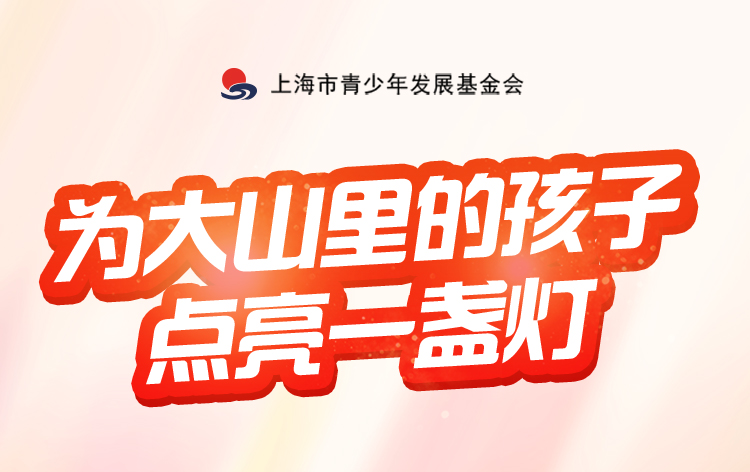
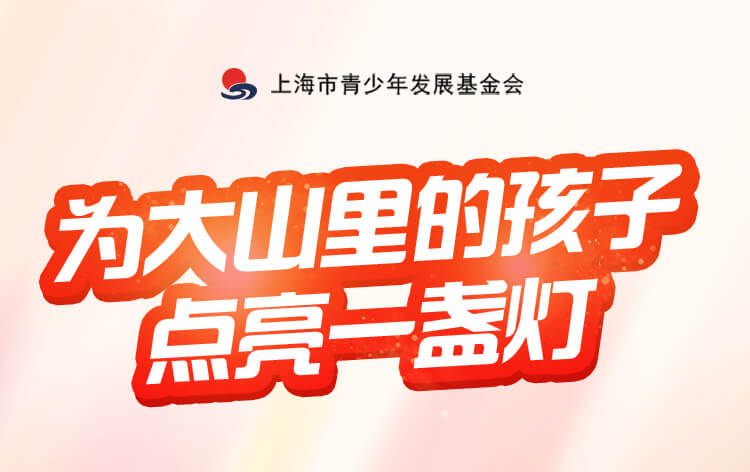
191015-n募捐项目上传

diff --git a/demo/outs20191015/css/style.css b/demo/outs20191015/css/style.css
@@ -92,12 +92,13 @@ img {
 .index .index-2 {
   width: 100%;
   height: auto;
+  margin-top: -1rem;
 }
 .index .index-3 {
   display: block;
   width: 12.59375rem;
   height: 2.8125rem;
-  margin: -3.125rem auto 0;
+  margin: -4.5rem auto 0;
 }
 .index .index-4 {
   display: block;
@@ -179,7 +180,7 @@ img {
 .index3 > .index3-1 {
   width: 100%;
   height: auto;
-  margin-top: 3.125rem;
+  margin-top: 1.125rem;
 }
 .index3 > .progress {
   width: 100%;
@@ -305,7 +306,7 @@ img {
 .index4 > .index4-1 {
   width: 100%;
   height: auto;
-  margin-top: 3.125rem;
+  margin-top: 1.125rem;
 }
 .index4 > .zs {
   width: 19rem;

diff --git a/demo/outs20191015/css/style.less b/demo/outs20191015/css/style.less
@@ -108,13 +108,14 @@ img {
   .index-2 {
     width: 100%;
     height: auto;
+    margin-top: -1rem;
   }
 
   .index-3 {
     display: block;
     width: 12.59375rem;
     height: 2.8125rem;
-    margin: -3.125rem auto 0;
+    margin: -4.5rem auto 0;
   }
 
   .index-4 {
@@ -214,7 +215,7 @@ img {
   >.index3-1 {
     width: 100%;
     height: auto;
-    margin-top: 3.125rem;
+    margin-top: 1.125rem;
   }
 
   >.progress {
@@ -360,7 +361,7 @@ img {
   >.index4-1 {
     width: 100%;
     height: auto;
-    margin-top: 3.125rem;
+    margin-top: 1.125rem;
   }
 
   >.zs {

diff --git a/demo/readme.md b/demo/readme.md
@@ -1,2 +1,3 @@
 + zz -- 2019-10-1~2019-10-7  中正集团外包
 + qx -- 慕课网 七夕言情  解析重构版
++ outs20191015 --- 募捐 - 为大山里的孩子点亮一盏灯
